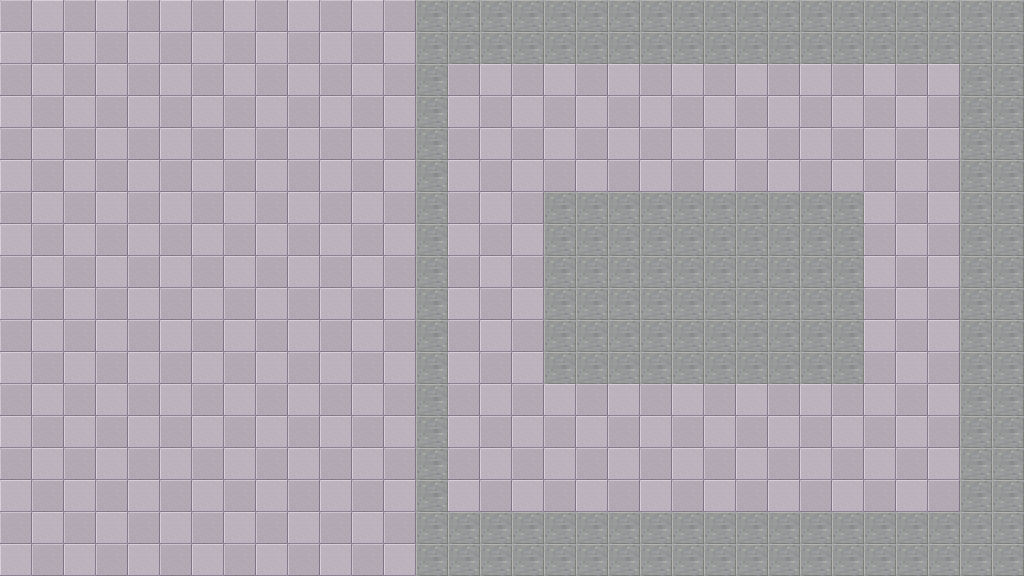
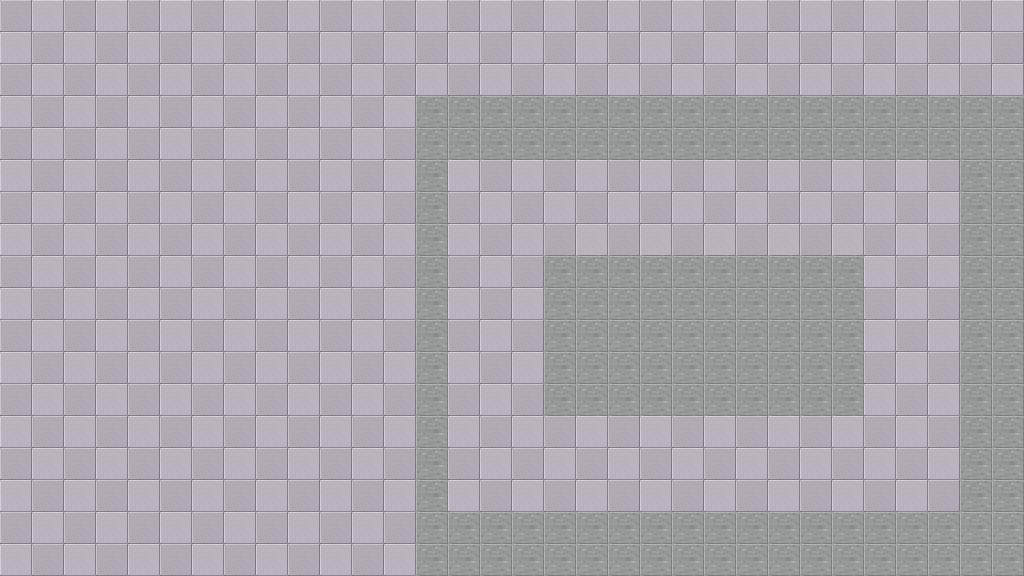
Update na geração de mapa e colisão

Changed region(s): [[0.4062, 0.0, 1.0, 0.2812], [0.5312, 0.3125, 0.8438, 0.4688], [0.5312, 0.6562, 0.8438, 0.7188]]

diff --git a/core/src/br/com/gabriel/chefboom/world/World.java b/core/src/br/com/gabriel/chefboom/world/World.java
@@ -67,9 +67,9 @@ public class World {
 
         //CLIENTES
 
-        client2 = entitiesFactory.createClient(artemis, -2 * Block.TILE_SIZE, 6 * Block.TILE_SIZE);
         client3 = entitiesFactory.createClient(artemis, -2 * Block.TILE_SIZE, 9 * Block.TILE_SIZE);
-        client  = entitiesFactory.createClient(artemis, -2 * Block.TILE_SIZE, 12 * Block.TILE_SIZE);
+        client2 = entitiesFactory.createClient(artemis, -2 * Block.TILE_SIZE, 7 * Block.TILE_SIZE);
+        client  = entitiesFactory.createClient(artemis, -2 * Block.TILE_SIZE, 5 * Block.TILE_SIZE);
     }
 
     public void regenerate() {
@@ -82,8 +82,8 @@ public class World {
         int innerRectMargin = 5;
         int innerStartX = (int) startX + innerRectMargin;
         int innerEndX = endX - 1 - innerRectMargin;
-        int innerStartY = startY + innerRectMargin + 1;
-        int innerEndY = endY - 1 - innerRectMargin - 1;
+        int innerStartY = startY + innerRectMargin;
+        int innerEndY = endY - 1 - innerRectMargin - 3;
 
         for (int x = 0; x < getWidth(); x++) {
             for (int y = 0; y < getHeight(); y++) {
@@ -97,9 +97,9 @@ public class World {
                             // Bordas externas
                             boolean isBorder =
                                     (x >= startX && x < startX + 1) || // borda esquerda
-                                            (x >= endX - 2 && x < endX) || // borda direita
-                                            (y >= startY && y < startY + 2) || // borda inferior
-                                            (y >= endY - 2 && y < endY); // borda superior
+                                    (x >= endX - 2 && x < endX) || // borda direita
+                                    (y >= startY && y < startY + 2) || // borda inferior
+                                    (y >= endY - 5 && y < endY); // borda superior
 
                             // Retângulo interno preenchido de BARRIER
                             if (x >= innerStartX && x <= innerEndX &&
@@ -112,14 +112,19 @@ public class World {
                             }
                         }
                     } else { // BACKGROUND
-
+                        block = Blocks.AIR;
                     }
-
                     map[x][y][l] = Blocks.getIdByBlock(block);
                 }
             }
         }
 
+        // Gera 3 linhas de barreira no topo do mapa para evitar que o jogador entre debaixo da hud
+        for (int y = getHeight() - 3; y < getHeight(); y++) {
+            for (int x = 0; x < getWidth(); x++) {
+                map[x][y][FG] = Blocks.getIdByBlock(Blocks.BARRIER);
+            }
+        }
         init();
     }
 

diff --git a/core/src/br/com/gabriel/chefboom/screen/GameScreen.java b/core/src/br/com/gabriel/chefboom/screen/GameScreen.java
@@ -1,17 +1,18 @@
 package br.com.gabriel.chefboom.screen;
 
 import br.com.gabriel.chefboom.resource.Assets;
-import com.badlogic.gdx.graphics.Texture;
 import br.com.gabriel.chefboom.ChefBoom;
 import br.com.gabriel.chefboom.Config;
 import br.com.gabriel.chefboom.block.Block;
 import br.com.gabriel.chefboom.entity.component.RigidBodyComponent;
 import br.com.gabriel.chefboom.entity.component.TransformComponent;
 import br.com.gabriel.chefboom.world.World;
+import br.com.gabriel.chefboom.hud.HudRenderer;
 import com.badlogic.gdx.Gdx;
 import com.badlogic.gdx.Input;
 import com.badlogic.gdx.ScreenAdapter;
 import com.badlogic.gdx.graphics.OrthographicCamera;
+import com.badlogic.gdx.graphics.Texture;
 import com.badlogic.gdx.graphics.g2d.SpriteBatch;
 import com.badlogic.gdx.math.Vector2;
 import com.badlogic.gdx.math.Vector3;
@@ -27,6 +28,7 @@ public class GameScreen extends ScreenAdapter {
     public final Vector3 screenCordinate = new Vector3();
 
     private Texture backgroundTexture;
+    private HudRenderer hudRenderer;
 
     @Override
     public void show () {
@@ -36,10 +38,12 @@ public class GameScreen extends ScreenAdapter {
 
         camera = new OrthographicCamera(Config.SCREEN_WIDTH, Config.SCREEN_HEIGHT);
 
-        // Mexer aqui para posicionar a câmera
+        // Mexer aqui para posicionar a câmeraac
         camera.setToOrtho(false, Config.SCREEN_WIDTH, Config.SCREEN_HEIGHT);
 
         backgroundTexture = Assets.manager.get(Assets.map);
+
+        hudRenderer = new HudRenderer();
 
         world = new World(camera);
         world.regenerate();
@@ -73,15 +77,18 @@ public class GameScreen extends ScreenAdapter {
     public void render (float delta) {
         resize(Gdx.graphics.getWidth(), Gdx.graphics.getHeight());
 
+        // Desenha o fundo
         batch.begin();
-        batch.draw(
-                backgroundTexture,
-                0, 0,
-                camera.viewportWidth, camera.viewportHeight
-        );
+        batch.draw(backgroundTexture, 0, 0,camera.viewportWidth, camera.viewportHeight);
         batch.end();
 
+        // Atualiza e desenha entidades
         world.update(delta);
+
+        // Desenha a hud no topo
+        batch.begin();
+        hudRenderer.render(batch, camera);
+        batch.end();
 
         if (Gdx.input.isKeyJustPressed(Input.Keys.ESCAPE)) {
             Gdx.app.exit();

diff --git a/core/src/br/com/gabriel/chefboom/resource/Assets.java b/core/src/br/com/gabriel/chefboom/resource/Assets.java
@@ -12,13 +12,16 @@ public class Assets {
     public static final AnnotationAssetManager manager = new AnnotationAssetManager(new InternalFileHandleResolver());
 
     //TEXTURAS PERSONAGEM
-    @Asset public static final AssetDescriptor<Texture> testeFrente = new AssetDescriptor<Texture>("player/player-frente.png", Texture.class);
-    @Asset public static final AssetDescriptor<Texture> testeCostas = new AssetDescriptor<Texture>("player/player-costas.png", Texture.class);
-    @Asset public static final AssetDescriptor<Texture> testeDireita = new AssetDescriptor<Texture>("player/player-direita.png", Texture.class);
-    @Asset public static final AssetDescriptor<Texture> testeEsquerda = new AssetDescriptor<Texture>("player/player-esquerda.png", Texture.class);
+    @Asset public static final AssetDescriptor<Texture> playerFrente = new AssetDescriptor<Texture>("player/player-frente.png", Texture.class);
+    @Asset public static final AssetDescriptor<Texture> playerCostas = new AssetDescriptor<Texture>("player/player-costas.png", Texture.class);
+    @Asset public static final AssetDescriptor<Texture> playerDireita = new AssetDescriptor<Texture>("player/player-direita.png", Texture.class);
+    @Asset public static final AssetDescriptor<Texture> playerEsquerda = new AssetDescriptor<Texture>("player/player-esquerda.png", Texture.class);
 
     //TEXTURA MAPA
     @Asset public static final AssetDescriptor<Texture> map = new AssetDescriptor<Texture>("mapa.png", Texture.class);
+
+    // TEXTURAS DO HUD
+    @Asset public static final AssetDescriptor<Texture> hudbackground = new AssetDescriptor<Texture>("hudBackground.png", Texture.class);
 
     // TEXTURAS DO MENU
     @Asset public static final AssetDescriptor<Texture> iniciarBotao = new AssetDescriptor<>("IniciarBotao.png", Texture.class);

diff --git a/core/src/br/com/gabriel/chefboom/entity/EntitiesFactory.java b/core/src/br/com/gabriel/chefboom/entity/EntitiesFactory.java
@@ -33,7 +33,7 @@ public class EntitiesFactory {
         TransformComponent cTransform = mTransform.create(entity);
         cTransform.position.set(x, y);
 
-        Texture texture = Assets.manager.get(Assets.testeEsquerda);
+        Texture texture = Assets.manager.get(Assets.playerEsquerda);
 
         SpriteComponent cSprite = mSprite.create(entity);
         cSprite.sprite = new Sprite(texture);
@@ -57,7 +57,7 @@ public class EntitiesFactory {
         TransformComponent cTransform = mTransform.create(entityC);
         cTransform.position.set(x, y);
 
-        Texture texture = Assets.manager.get(Assets.testeDireita);
+        Texture texture = Assets.manager.get(Assets.playerDireita);
 
         SpriteComponent cSprite = mSprite.create(entityC);
         cSprite.sprite = new Sprite(texture);

diff --git a/core/src/br/com/gabriel/chefboom/hud/HudRenderer.java b/core/src/br/com/gabriel/chefboom/hud/HudRenderer.java
@@ -1,0 +1,23 @@
+package br.com.gabriel.chefboom.hud;
+
+import br.com.gabriel.chefboom.block.Block;
+import br.com.gabriel.chefboom.resource.Assets;
+import com.badlogic.gdx.graphics.OrthographicCamera;
+import com.badlogic.gdx.graphics.Texture;
+import com.badlogic.gdx.graphics.g2d.SpriteBatch;
+
+public class HudRenderer {
+    private final Texture hudImageTexture;
+
+    public HudRenderer() {
+        this.hudImageTexture = Assets.manager.get(Assets.hudbackground);
+    }
+
+    public void render(SpriteBatch batch, OrthographicCamera camera) {
+        float imageHeight = 3 * Block.TILE_SIZE;
+        float imageWidth = camera.viewportWidth;
+        batch.draw(hudImageTexture, 0, camera.viewportHeight - imageHeight, imageWidth, imageHeight);
+
+
+    }
+}

diff --git a/core/src/br/com/gabriel/chefboom/entity/system/ClientControllerSystem.java b/core/src/br/com/gabriel/chefboom/entity/system/ClientControllerSystem.java
@@ -8,10 +8,6 @@ import br.com.gabriel.chefboom.resource.Assets;
 import com.artemis.Aspect;
 import com.artemis.ComponentMapper;
 import com.artemis.systems.IteratingSystem;
-import com.badlogic.gdx.Gdx;
-import com.badlogic.gdx.Input;
-import com.badlogic.gdx.InputAdapter;
-import com.badlogic.gdx.InputMultiplexer;
 import com.badlogic.gdx.graphics.Texture;
 
 public class ClientControllerSystem extends IteratingSystem {
@@ -34,7 +30,7 @@ public class ClientControllerSystem extends IteratingSystem {
 
     @Override
     protected void initialize() {
-        texDireita = Assets.manager.get(Assets.testeDireita);
+        texDireita = Assets.manager.get(Assets.playerDireita);
     }
 
     @Override

diff --git a/core/src/br/com/gabriel/chefboom/entity/system/PlayerControllerSystem.java b/core/src/br/com/gabriel/chefboom/entity/system/PlayerControllerSystem.java
@@ -43,10 +43,10 @@ public class PlayerControllerSystem extends IteratingSystem {
 
     @Override
     protected void initialize() {
-        texFrente = Assets.manager.get(Assets.testeFrente);
-        texCostas = Assets.manager.get(Assets.testeCostas);
-        texDireita = Assets.manager.get(Assets.testeDireita);
-        texEsquerda = Assets.manager.get(Assets.testeEsquerda);
+        texFrente = Assets.manager.get(Assets.playerFrente);
+        texCostas = Assets.manager.get(Assets.playerCostas);
+        texDireita = Assets.manager.get(Assets.playerDireita);
+        texEsquerda = Assets.manager.get(Assets.playerEsquerda);
     }
 
     @Override
